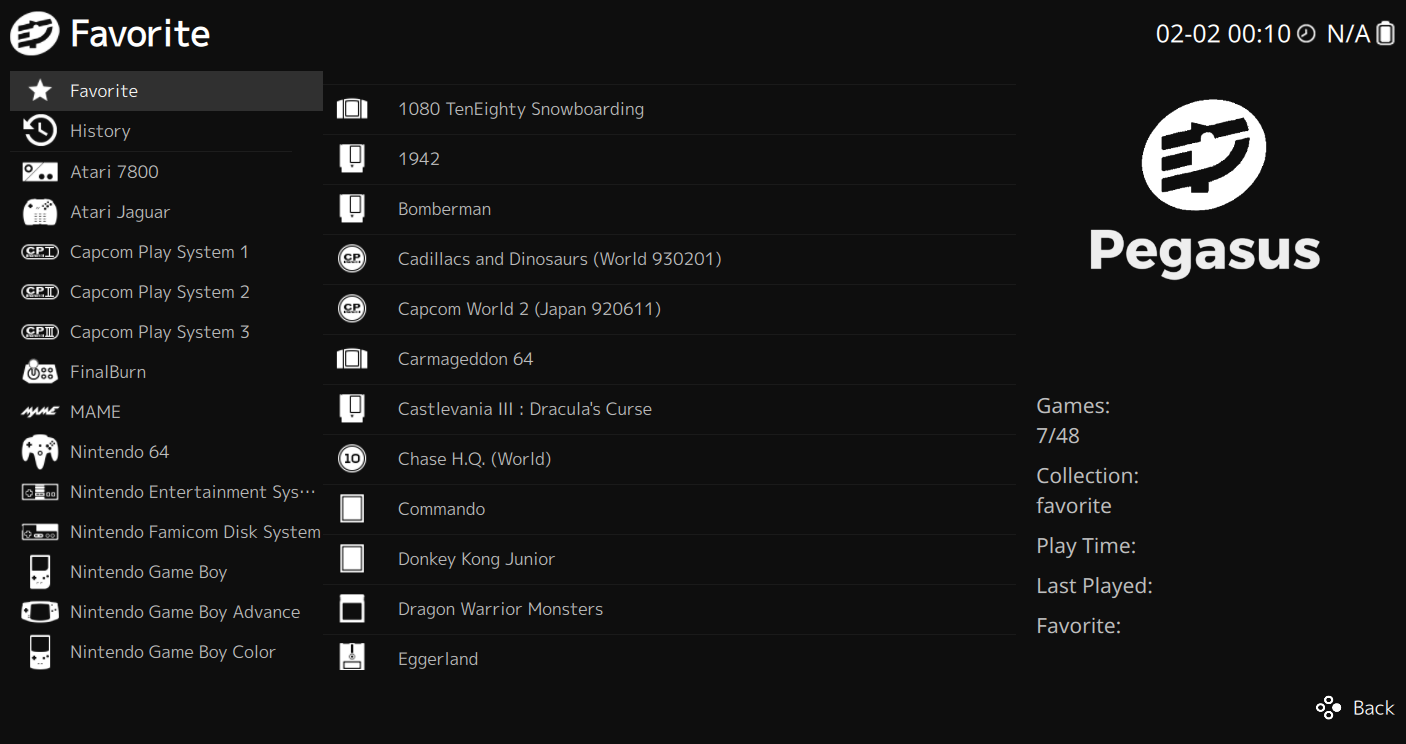
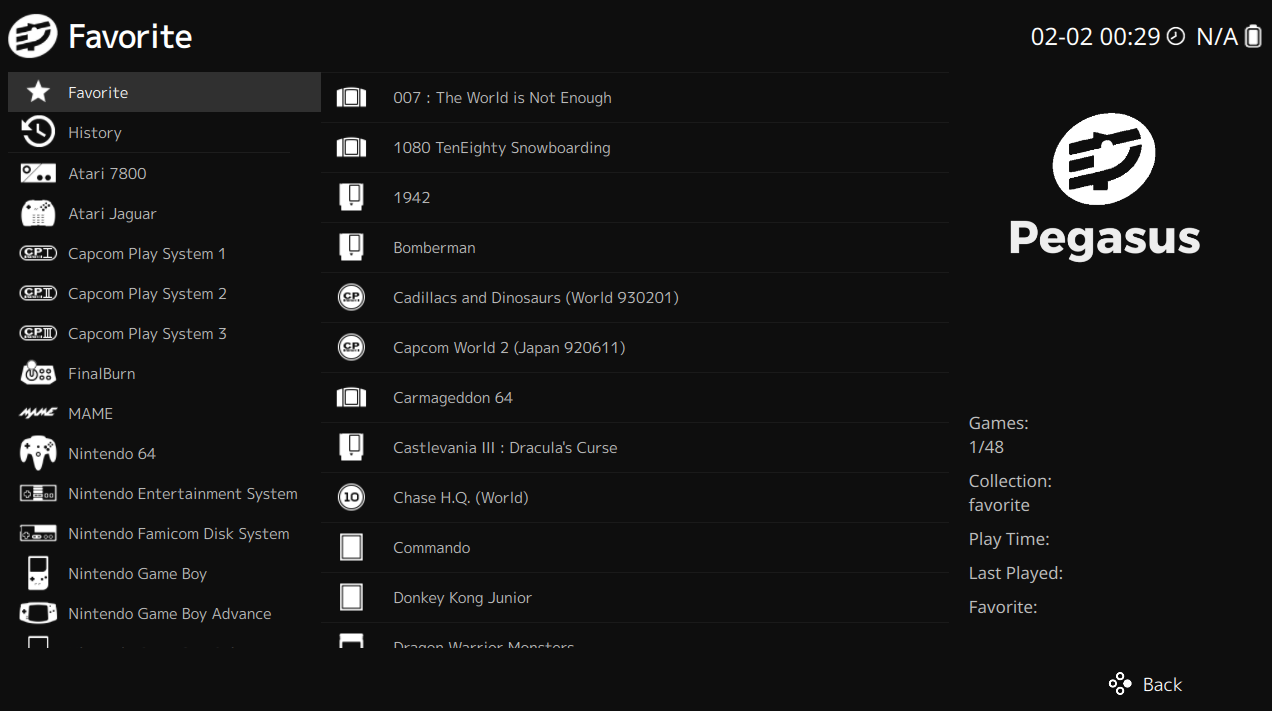
update-2-2-25

diff --git a/theme.qml b/theme.qml
@@ -758,17 +758,25 @@ FocusScope {
                 height: parent.height * 0.10
                 width: parent.width * 0.98
                 anchors.horizontalCenter: parent.horizontalCenter
-                anchors.top: conteiner.bottom 
+                anchors.top: conteiner.bottom
                 color: "#0e0e0e"
 
                 Row {
+                    id: mainRow
                     anchors.verticalCenter: parent.verticalCenter
                     anchors.right: parent.right
                     spacing: 20
 
-                    Row {
-                        spacing: 5
+                    Behavior on anchors.rightMargin {
+                        NumberAnimation {
+                            duration: 300
+                            easing.type: Easing.InOutQuad
+                        }
+                    }
 
+                    Row {
+                        id: detailsRow
+                        spacing: 5
                         visible: gameListView.focus
                         opacity: gameListView.focus ? 1.0 : 0.0
 
@@ -804,10 +812,9 @@ FocusScope {
                         }
                     }
 
-
                     Row {
+                        id: favoriteRow
                         spacing: 5
-
                         visible: gameListView.focus
                         opacity: gameListView.focus ? 1.0 : 0.0
 
@@ -843,28 +850,10 @@ FocusScope {
                         }
                     }
 
-                    Row {
-                        spacing: 5
-                        Image {
-                            source: "assets/theme-icons/back.png"
-                            width: bottomBar.width * 0.02
-                            height: bottomBar.height * 0.35
-                            anchors.verticalCenter: parent.verticalCenter
-                            sourceSize { width: 64; height: 64 }
-                        }
-
-                        Text {
-                            text: " Back"
-                            color: "white"
-                            font.family: fontLoader.name
-                            font.pixelSize: bottomBar.height * 0.25
-                            anchors.verticalCenter: parent.verticalCenter
-                        }
-                    }
 
                     Row {
+                        id: okRow
                         spacing: 5
-
                         visible: gameListView.focus
                         opacity: gameListView.focus ? 1.0 : 0.0
 
@@ -899,7 +888,46 @@ FocusScope {
                             anchors.verticalCenter: parent.verticalCenter
                         }
                     }
+
+                    Row {
+                        id: backRow
+                        spacing: 5
+                        Image {
+                            source: "assets/theme-icons/back.png"
+                            width: bottomBar.width * 0.02
+                            height: bottomBar.height * 0.35
+                            anchors.verticalCenter: parent.verticalCenter
+                            sourceSize { width: 64; height: 64 }
+                        }
+
+                        Text {
+                            text: " Back"
+                            color: "white"
+                            font.family: fontLoader.name
+                            font.pixelSize: bottomBar.height * 0.25
+                            anchors.verticalCenter: parent.verticalCenter
+                        }
+                    }
                 }
+
+                states: [
+                    State {
+                        name: "hidden"
+                        when: !gameListView.focus
+                        PropertyChanges {
+                            target: mainRow
+                            anchors.rightMargin: backRow.width + bottomBar.width * 0.003
+                        }
+                    },
+                    State {
+                        name: "visible"
+                        when: gameListView.focus
+                        PropertyChanges {
+                            target: mainRow
+                            anchors.rightMargin: 0
+                        }
+                    }
+                ]
             }
         }
     }
